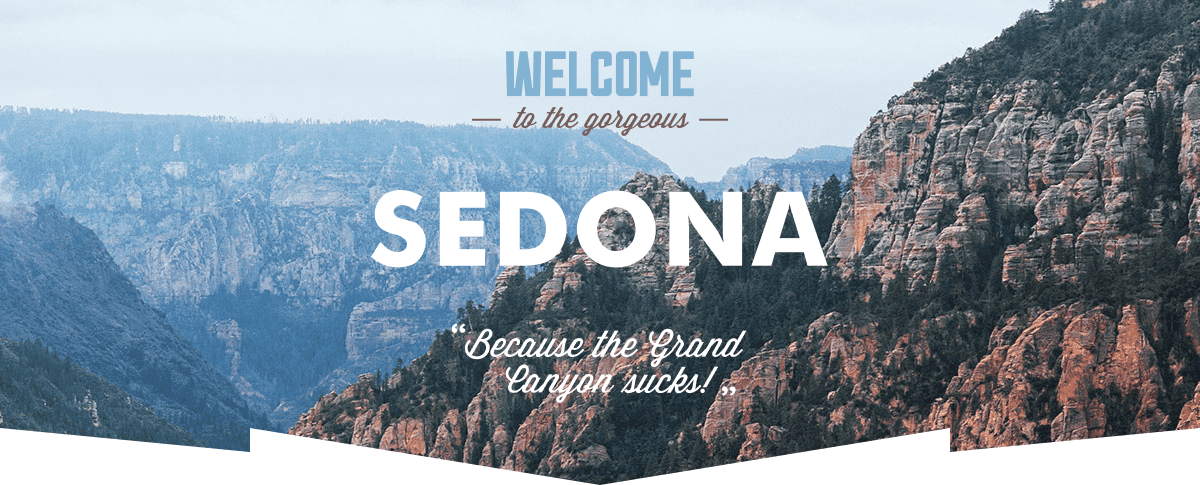
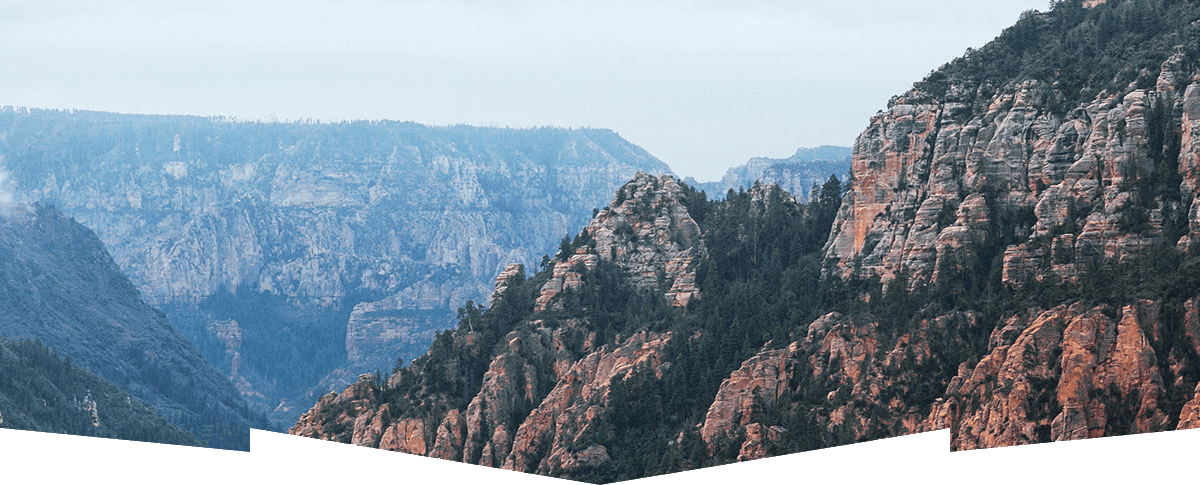
Добавляет кусочек css

Changed region(s): [[0.3083, 0.3711, 0.7092, 0.5567], [0.4008, 0.0928, 0.5858, 0.2784], [0.37, 0.6495, 0.6167, 0.8351]]

diff --git a/styles/styles.css b/styles/styles.css
@@ -1,0 +1,104 @@
+@font-face {
+  font-family: "PT Sans";
+  font-style: normal;
+  font-weight: 400;
+  src: url(../fonts/ptsans-400.woff2) format("woff2");
+  font-display: swap;
+}
+
+@font-face {
+  font-family: "PT Sans";
+  font-style: normal;
+  font-weight: 700;
+  src: url(../fonts/ptsans-700.woff2) format("woff2");
+  font-display: swap;
+}
+
+body {
+  font-family: "PT Sans", sans-serif;
+  font-size: 18px;
+  line-height: 21px;
+  font-weight: 400;
+  background-color: #ffffff;
+  color: #000000;
+}
+
+.navigation-link {
+  font-size: 20px;
+  line-height: 24px;
+  font-weight: 700;
+  color:#000000;
+  background-color: #ffffff;
+  text-align: center;
+  text-decoration: none;
+}
+
+.button {
+  background-color: #756157;
+  color: #ffffff;
+  border-radius: 4px;
+  padding: 8px 50px;
+  font-size: 16px;
+  line-height: 20px;
+  font-weight: 700;
+  text-transform: uppercase;
+  text-decoration: none;
+}
+
+.button-blue {
+  background-color: #82B3D3;
+}
+
+.main-index {
+  background-image: url(../images/sedona-hero.png);
+  background-size: 1200px 485px;
+  background-repeat: no-repeat;
+  text-align: center;
+}
+
+.section-heading-title {
+  font-size: 30px;
+  line-height: 36px;
+  font-weight: 700;
+  text-transform: uppercase;
+}
+
+.section-heading-text {
+  font-size: 22px;
+  line-height: 26px;
+}
+
+.advantages-item:first-child,
+.advantages-item:last-child {
+  background-color: #82B3D3;
+  color: #ffffff;
+}
+
+.advantages-item:nth-child(2),
+.advantages-item:nth-child(4) {
+  background-color: rgba(131, 179, 211, 0.12);
+}
+
+.advantages-item:nth-child(3) {
+  background-color: rgba(131, 179, 211, 0.2);
+}
+
+.advantages-title,
+.recommendations-title {
+  font-size: 24px;
+  line-height: 28px;
+  font-weight: 700;
+  text-transform: uppercase;
+}
+
+.recommendations-item:first-child,
+.recommendations-item:last-child {
+  background-color: rgba(131, 179, 211, 0.12);
+}
+
+.subscription {
+  background-image: url(../images/subscribe-background.jpg);
+  background-size: 1200px 415px;
+  background-repeat: no-repeat;
+  height: 415px;
+}

diff --git a/index.html b/index.html
@@ -3,7 +3,9 @@
   <head>
     <meta charset="utf-8">
     <title>Седона: Главная</title>
+    <link rel="stylesheet" href="styles/styles.css"
   </head>
+
   <body>
     <header class="main-header">
 
@@ -42,10 +44,9 @@
       </nav>
     </header>
 
-    <main>
+    <main class="main-index">
       <h1 class="visually-hidden">Добро пожаловать в Седону</h1>
-      <!--Это, скорее, декоративное изображение, и мы должны подключить его позже стилями. Оно здесь пока только для красоты-->
-      <img src="images/sedona-hero.png" width="1200" height="485" alt="Горный пейзаж Седоны">
+      <img class="index-hero" src="images/welcome-to-sedona.svg" width="458" height="352" alt="Горный пейзаж Седоны">
 
       <section class="advantages">
         <h2 class="visually-hidden">Почему стоит посетить Седону?</h2>
@@ -114,7 +115,6 @@
       <section class="subscription">
         <h2 class="subscription-title">Подпишитесь на рассылку</h2>
         <p class="subscription-text">Только полезная информация и никакого спама, честное бойскаутское!</p>
-
         <form class="subscription-form" action="https://echo.htmlacademy.ru/" method="post">
           <input type="email" name="e-mail" placeholder="Ваш e-mail" required>
           <button class="button button-blue" type="submit">Подписаться</button>

diff --git a/catalog.html b/catalog.html
@@ -3,7 +3,9 @@
   <head>
     <meta charset="utf-8">
     <title>Седона: Гостиницы</title>
+    <link rel="stylesheet" href="styles/styles.css"
   </head>
+
   <body>
     <header class="main-header">
 
